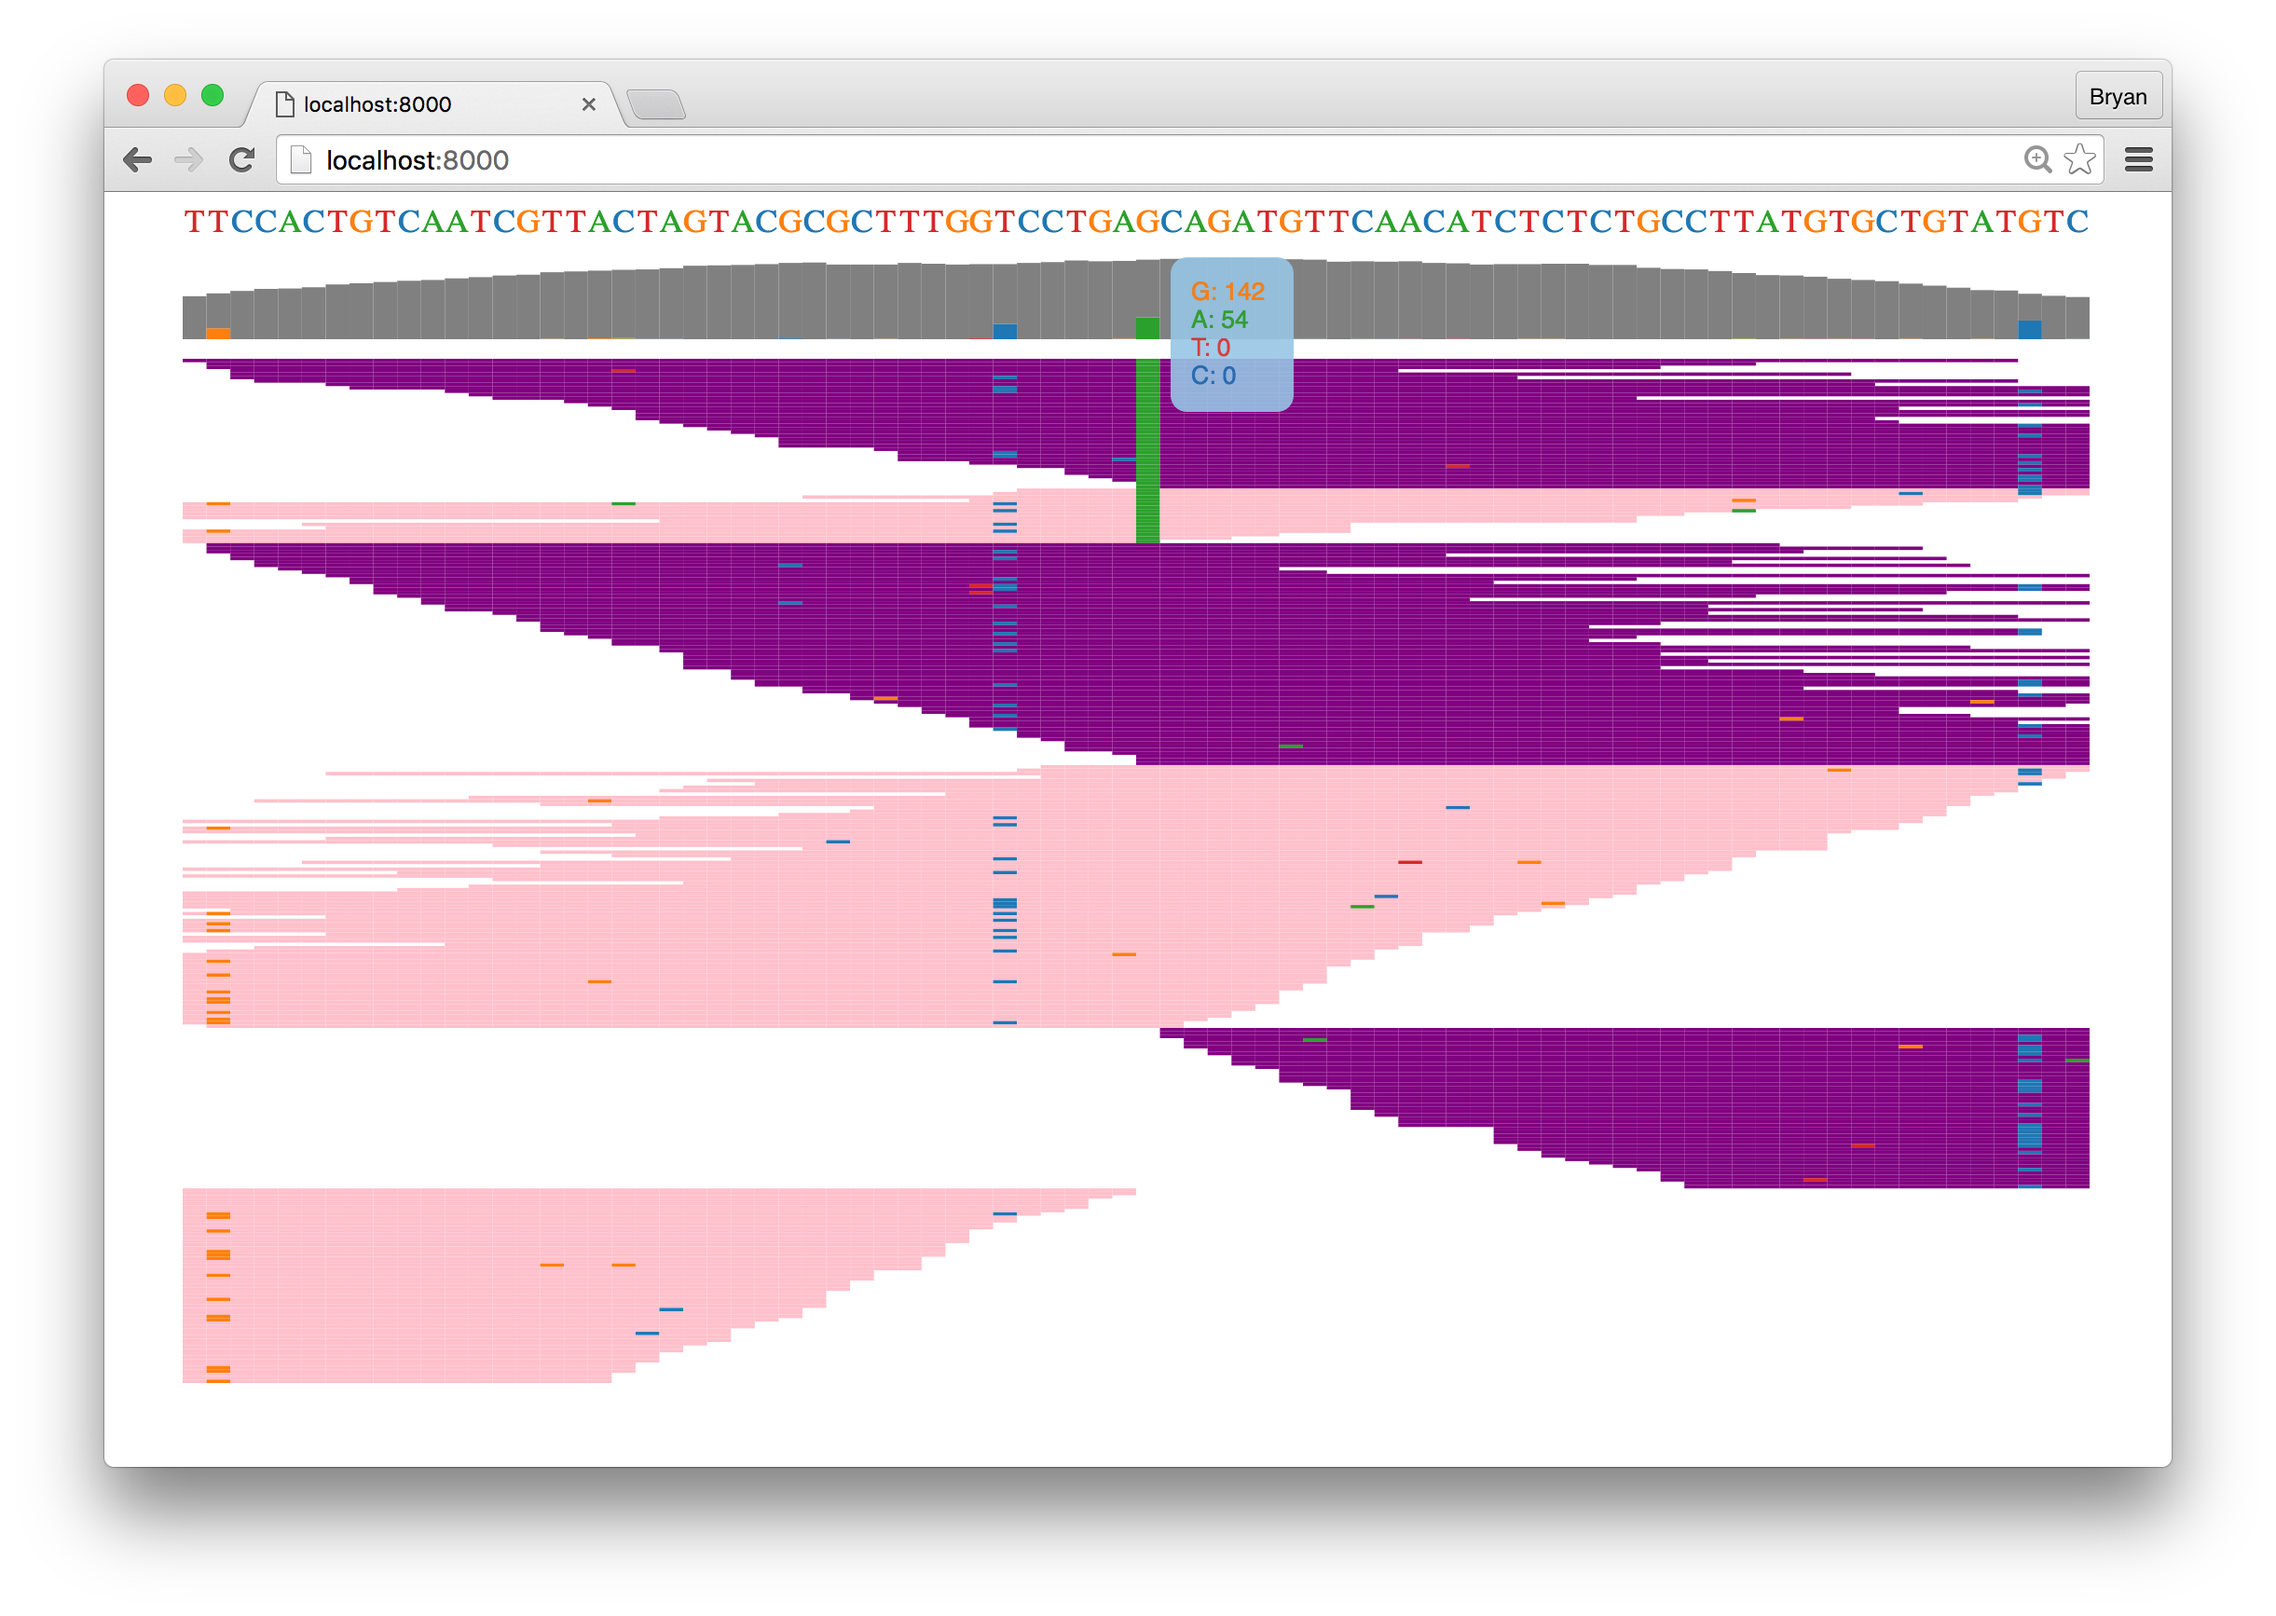
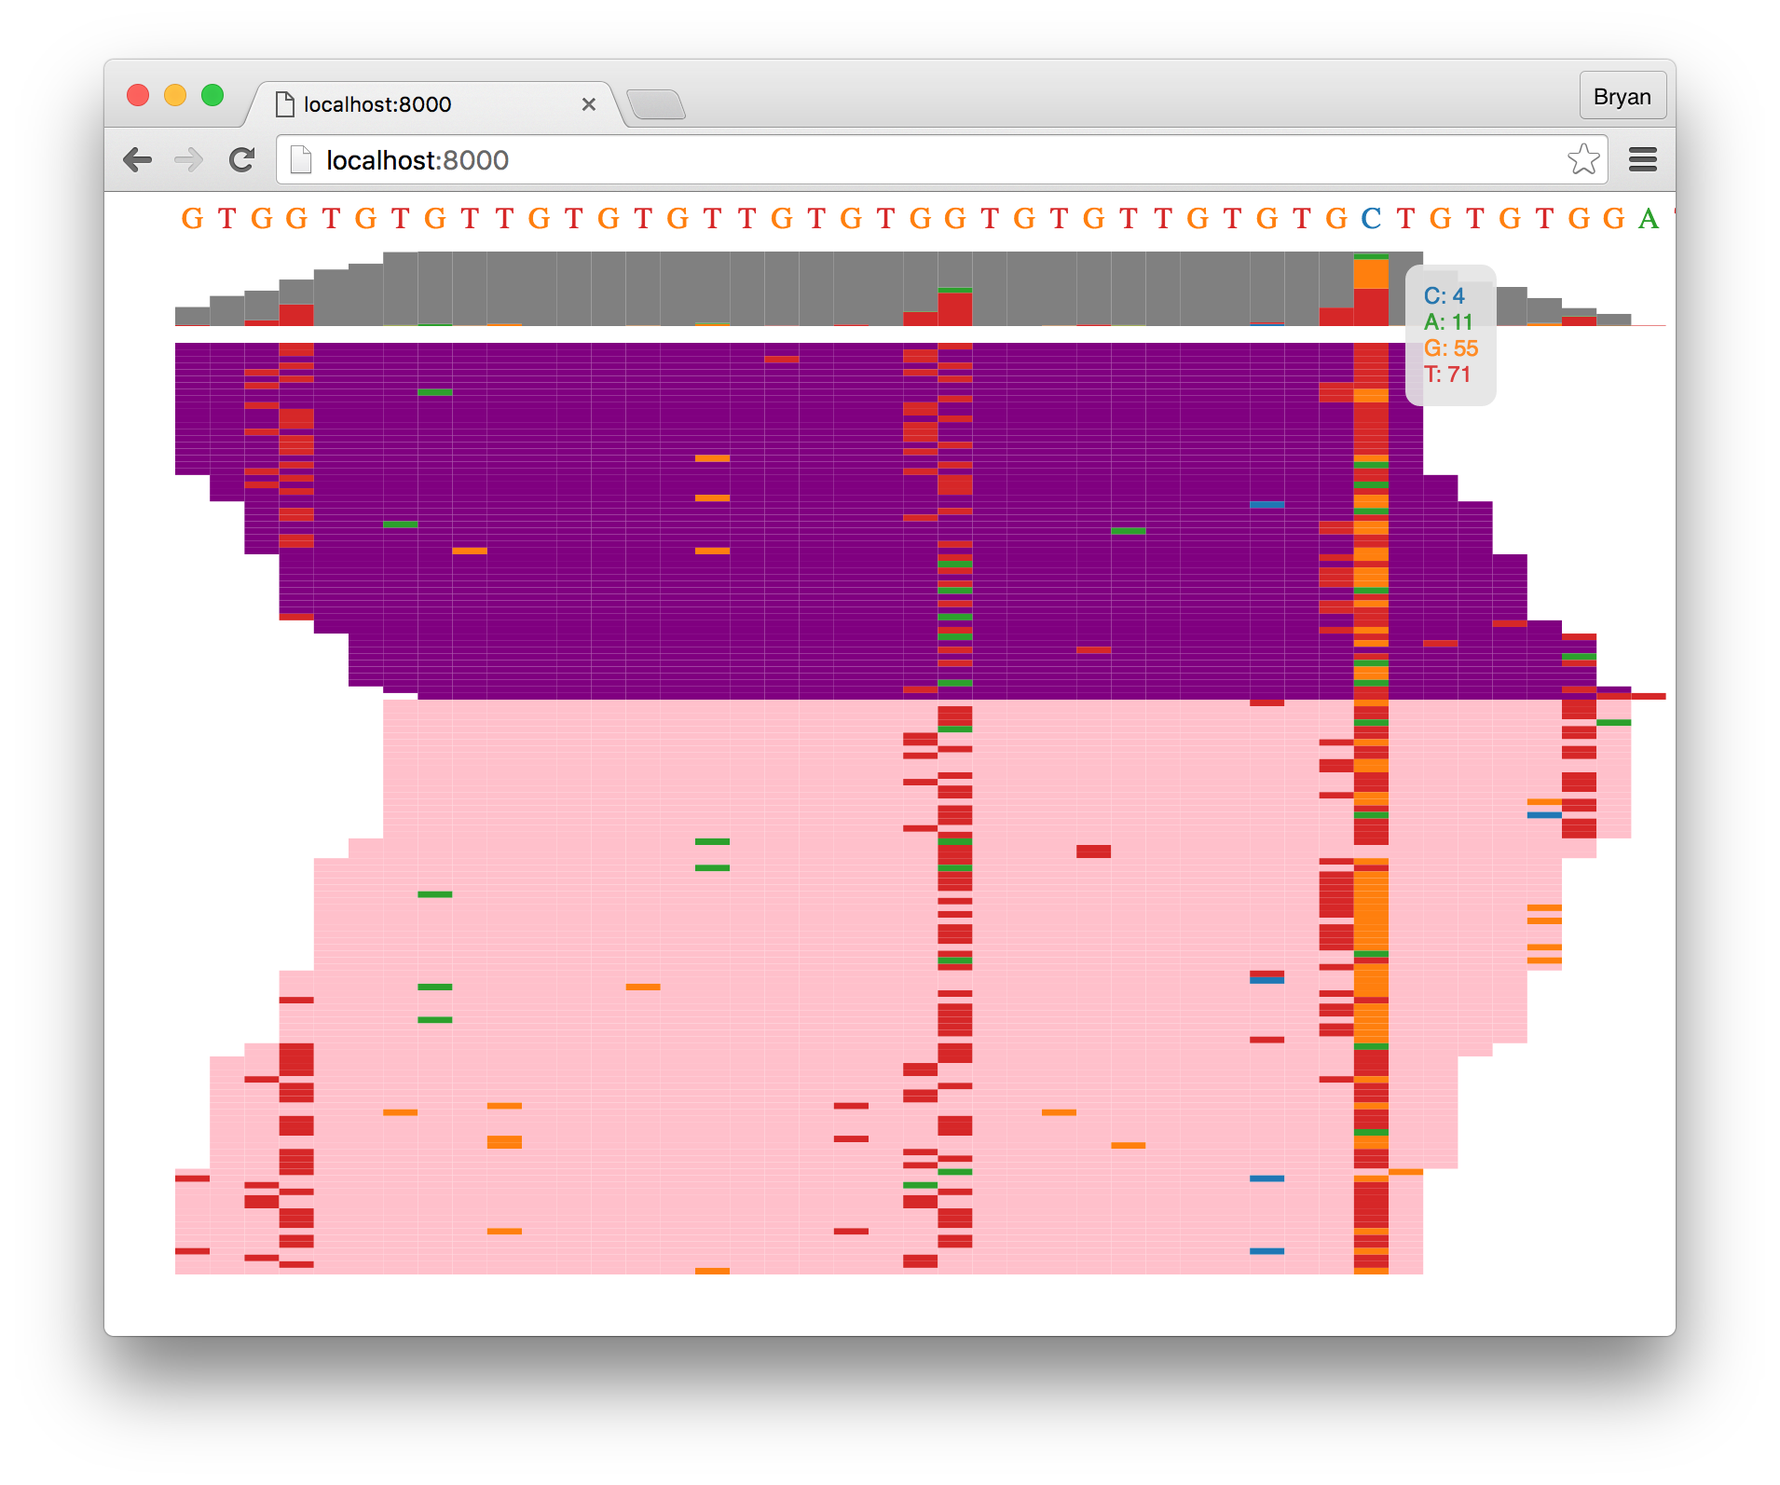
added bamfilesupport

diff --git a/app/render.js b/app/render.js
@@ -24,8 +24,8 @@ function initSVGs(width, margin, refseq, coverage, reads) {
 ///////////////////////////////////////////////////////////////
 
 function render(data, gridSizeX) {
-  positionalSort = true
-  sortReads(data, position=Math.floor(data.reference.length / 2));
+  positionalSort = false
+  sortReads(data);
   renderRefSeq(data, gridSizeX);
   renderCoverage(data, gridSizeX);
   renderReads(data, gridSizeX);
@@ -48,8 +48,8 @@ function renderRefSeq(data, gridSizeX, trackHeight=10) {
 ///////////////////////////////////////////////////////////////
 
 function renderCoverage(data, gridSizeX, trackHeight=40) {
-  var maxCoverage = d3.max(data.coverage, function(d) {
-    return d3.sum(bases.map(function (b) { return d[b]; }));
+  var maxCoverage = d3.max(Object.keys(data.coverage), function(p) {
+    return d3.sum(bases.map(function (b) { return data.coverage[p][b]; }));
   });
 
   var yscale = d3.scale.linear()
@@ -62,7 +62,7 @@ function renderCoverage(data, gridSizeX, trackHeight=40) {
   for (i in data.coverage) {
     var y = 0,
         cov = data.coverage[i],
-        referenceBase = referenceBases[i],
+        referenceBase = referenceBases[i - data.start],
         sortedBases = bases.slice().sort(function (a, b) {
           // sort bases by coverage so that the bases with the highest
           // read count go at the bottom of the stacked bar.  The reference
@@ -74,7 +74,7 @@ function renderCoverage(data, gridSizeX, trackHeight=40) {
             return 1;
           }
           else {
-            return cov[a] - cov[b]; }
+            return cov[b] - cov[a]; }
         })
 
 
@@ -85,7 +85,7 @@ function renderCoverage(data, gridSizeX, trackHeight=40) {
       stacked.push({
         base: base,
         position: i,
-        x: i * gridSizeX,
+        x: (i - data.start) * gridSizeX,
         y: trackHeight - y - height,
         height: height,
         color: base === referenceBase ? "grey" : colorScale(base),
@@ -139,11 +139,11 @@ function renderReads(data, gridSizeX, trackHeight=500) {
     for (var i = 0; i < data.reads.length; i++) {
       var read = data.reads[i]
           read_bases = read.sequence.split("");
-      for (var pos = 0; pos < read_bases.length; pos++) {
-        expanded.push({x: read.start + pos,
+      for (var offset = 0; offset < read_bases.length; offset++) {
+        expanded.push({x: read.start + offset - data.start,
                        y: i,
                        fwd: read.fwd,
-                       base: read_bases[pos]});
+                       base: read_bases[offset]});
       }
     }
     return(expanded);
@@ -163,9 +163,12 @@ function renderReads(data, gridSizeX, trackHeight=500) {
       // .attr("class", "bordered")
       .attr("width", gridSizeX)
       .attr("height", gridSizeY)
-      .attr("fill", function(d) { return d.base === referenceBases[d.x] ?
-                                          (d.fwd ? "purple" : "pink") : colorScale(d.base); })
-      ;
+      .attr("fill", function(d) { if (d.base === referenceBases[d.x]) {
+                                    return d.fwd ? "purple" : "pink"
+                                  }
+                                  else {
+                                    return colorScale(d.base);
+                                  }});
 }
 
 ///////////////////////////////////////////////////////////////
@@ -187,7 +190,7 @@ function sortReads(data, position=null) {
       }
 
       function baseCoverage(base) {
-        if (base === data.reference[position]) {
+        if (base === data.reference[position - data.start]) {
           // put wild-type reads at the bottom
           return 0;
         }
@@ -224,7 +227,8 @@ function sortReads(data, position=null) {
         s += a.fwd ? -data.reference.length : data.reference.length;
       }
       function startDelay(read) {
-        return read.fwd ? read.start : data.reference.length - (read.start + read.sequence.length);
+        offset = read.start - data.start
+        return read.fwd ? offset : data.reference.length - (offset + read.sequence.length);
       }
 
       s += startDelay(a) - startDelay(b);

diff --git a/app/bam.py b/app/bam.py
@@ -1,0 +1,145 @@
+import random
+from xml.etree import ElementTree
+
+import pysam
+import requests
+
+
+BASES = ('A', 'C', 'G', 'T')
+UCSC_URL = 'http://genome.ucsc.edu/cgi-bin/das/hg19/dna'
+
+segment_to_reference = {}
+
+
+class BAM(object):
+    def __init__(self, filename):
+        self.bam = pysam.AlignmentFile(filename)
+
+    def fetch_segment(self, chrom, start, end):
+        reads = self.fetch_reads(chrom, start, end)
+        coverage = BAM.pileup(reads)
+        try:
+            reference_sequence = BAM.fetch_reference_for_segment(chrom, start, end)
+        except RuntimeError:
+            reference_sequence = BAM.reference_by_consensus(coverage)
+
+        return {'chr': chrom,
+                'start': start,
+                'end': end,
+                'reference': reference_sequence,
+                'reads': reads,
+                'coverage': coverage}
+
+    def fetch_reads(self, chrom, start, end):
+        return [{'sequence': r.query_sequence,
+                 'fwd': not r.is_reverse,
+                 'quality': r.mapq,
+                 'start': r.reference_start}
+                for r in self.bam.fetch(chrom, start, end)
+                if r.reference_start >= start and r.reference_start + len(r.query_sequence) <= end]
+
+    @staticmethod
+    def fetch_reference_for_segment(chrom, start, end):
+        segment = '{chrom}:{start},{end}'.format(chrom=chrom, start=start + 1, end=end)
+        if segment not in segment_to_reference:
+            resp = requests.get(UCSC_URL, params={'segment': segment}, timeout=2)
+            if resp.status_code != 200:
+                raise RuntimeError("Non-200 response received from UCSC: {}".format(resp))
+
+            e = ElementTree.fromstring(resp.text)
+            segment_to_reference[segment] = e.find('SEQUENCE').find('DNA').text.strip().upper()
+
+        return segment_to_reference[segment]
+
+    @staticmethod
+    def pileup(reads):
+        start = min([r['start'] for r in reads])
+        end = max([r['start'] + len(r['sequence']) for r in reads])
+        coverage = {pos: {base: 0 for base in BASES}
+                    for pos in xrange(start, end)}
+        for read in reads:
+            for i, base in enumerate(read['sequence']):
+                if base in BASES:
+                    coverage[read['start'] + i][base] += 1
+        return coverage
+
+    @staticmethod
+    def reference_by_consensus(pileup):
+        reference_sequence = []
+        for position in sorted(pileup.keys()):
+            coverage = pileup[position]
+            reference_sequence.append(max(coverage, key=lambda b: coverage[b]))
+
+        return ''.join(reference_sequence)
+
+
+#############################################################################
+
+
+class SimBAM(BAM):
+    @staticmethod
+    def fetch_segment(read_error_rate=0.03, sequence_length=80, num_reads=100,
+                      max_SNPs=4, tumor_content=0.3):
+        reference_sequence = [random.choice(BASES)
+                              for _ in xrange(sequence_length)]
+
+        SNPs = [SimBAM._make_SNP(reference_sequence, tumor_content, reticle=(i == 0))
+                for i in xrange(random.randrange(1, max_SNPs))]
+
+        reads = [SimBAM._make_fake_read(reference_sequence, read_error_rate, SNPs)
+                 for _ in xrange(num_reads)]
+
+        return {'chr': 'chr1',
+                'start': 0,
+                'end': len(reference_sequence),
+                'reference': ''.join(reference_sequence),
+                'reads': reads,
+                'coverage': BAM.pileup(reads)}
+
+    @staticmethod
+    def _make_fake_read(reference_sequence, read_error_rate, SNPs):
+        read_sequence = reference_sequence[:]
+        with_read_errors = SimBAM._induce_read_errors(read_sequence, read_error_rate)
+        with_SNPs = SimBAM._induce_SNP_reads(with_read_errors, SNPs)
+        return SimBAM._trim_read(with_SNPs, random.choice([True, False]))
+
+    @staticmethod
+    def _make_SNP(reference_sequence, tumor_content=0.3,
+                  homozygous=random.choice([True, False]),
+                  reticle=False):
+        pos = len(reference_sequence) / 2 if reticle else random.randrange(len(reference_sequence))
+        reference_base = reference_sequence[pos]
+        mutant_base = random.choice([b for b in BASES if b != reference_base])
+        max_af = tumor_content if homozygous else tumor_content / 2.
+        af = (1 + random.random()) / 2 * max_af
+        return {'pos': pos,
+                'base': mutant_base,
+                'af': af}
+
+    @staticmethod
+    def _induce_read_errors(read_sequence, read_error_rate):
+        return [b if random.random() > read_error_rate
+                else random.choice(BASES)
+                for b in read_sequence]
+
+    @staticmethod
+    def _induce_SNP_reads(read_sequence, SNPs):
+        with_SNPs = read_sequence[:]
+        for m in SNPs:
+            if random.random() < m['af']:
+                with_SNPs[m['pos']] = m['base']
+        return with_SNPs
+
+    @staticmethod
+    def _trim_read(read_sequence, fwd):
+        sequence_length = len(read_sequence)
+        start = random.randrange(sequence_length * 4 / 5)
+        length = (random.randrange(sequence_length) + sequence_length) / 2
+        end = min(start + length, sequence_length)
+        if not fwd:
+            tmp = start
+            start = sequence_length - end
+            end = sequence_length - tmp
+        return {'start': start,
+                'sequence': ''.join(read_sequence[start:end + 1]),
+                'fwd': fwd}

diff --git a/app/api.py b/app/api.py
@@ -5,7 +5,7 @@ from flask import jsonify
 from flask import send_from_directory
 
 
-from app import read_generator
+from app.bam import SimBAM
 
 
 api = Flask(__name__)
@@ -15,7 +15,7 @@ DEFAULT_ARGS = {'read_error_rate': 0.003,
                 'sequence_length': 80,
                 'num_reads': 100,
                 'max_SNPs': 4,
-                'tumor_content': 0.8}
+                'tumor_content': 0.3}
 
 
 @api.route('/reads', methods=['POST'])
@@ -25,7 +25,7 @@ def get_reads():
         if k not in args:
             args[k] = v
 
-    return jsonify(read_generator.generate_fake_reads(**args))
+    return jsonify(SimBAM.fetch_segment(**args))
 
 
 @api.route('/', methods=['GET'])
